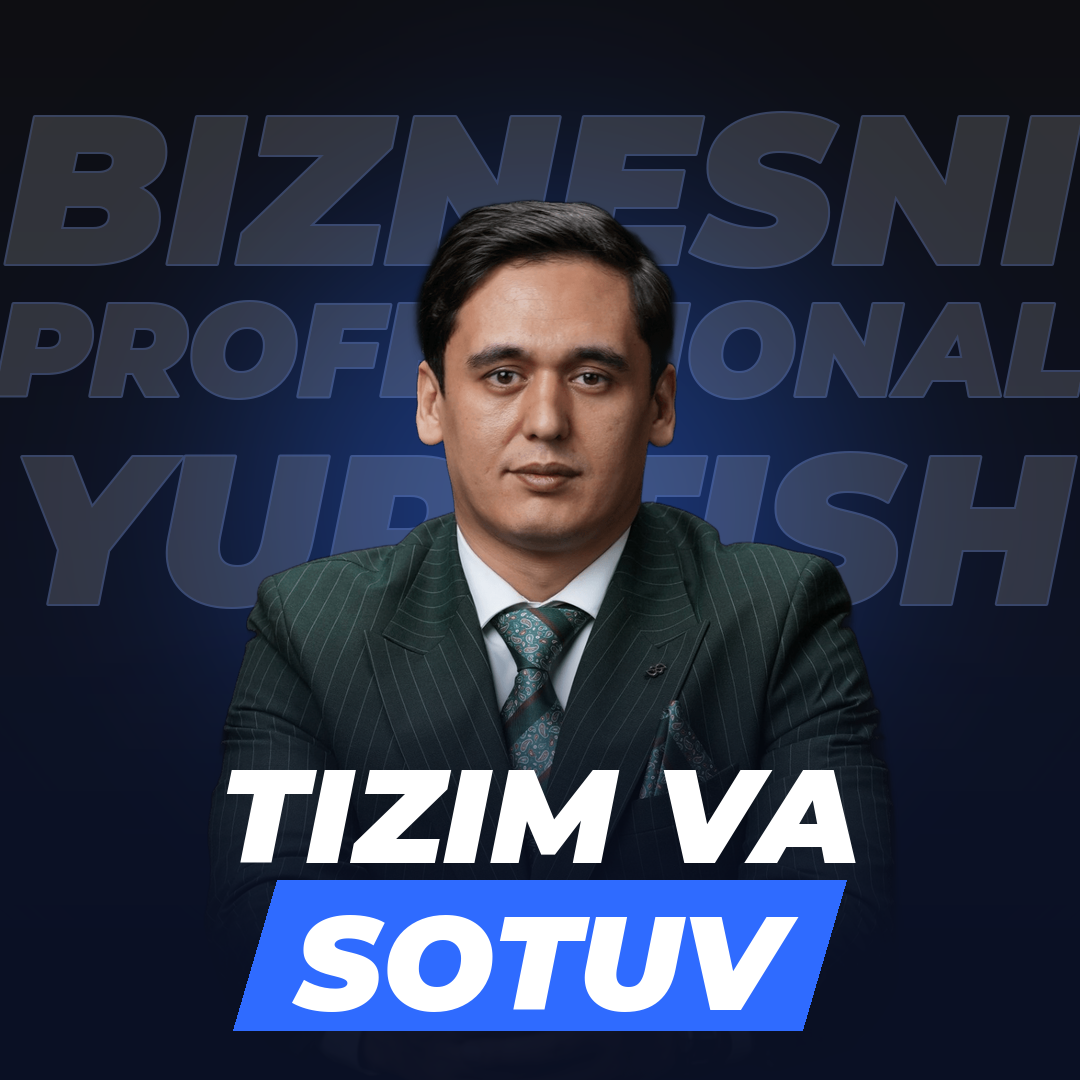
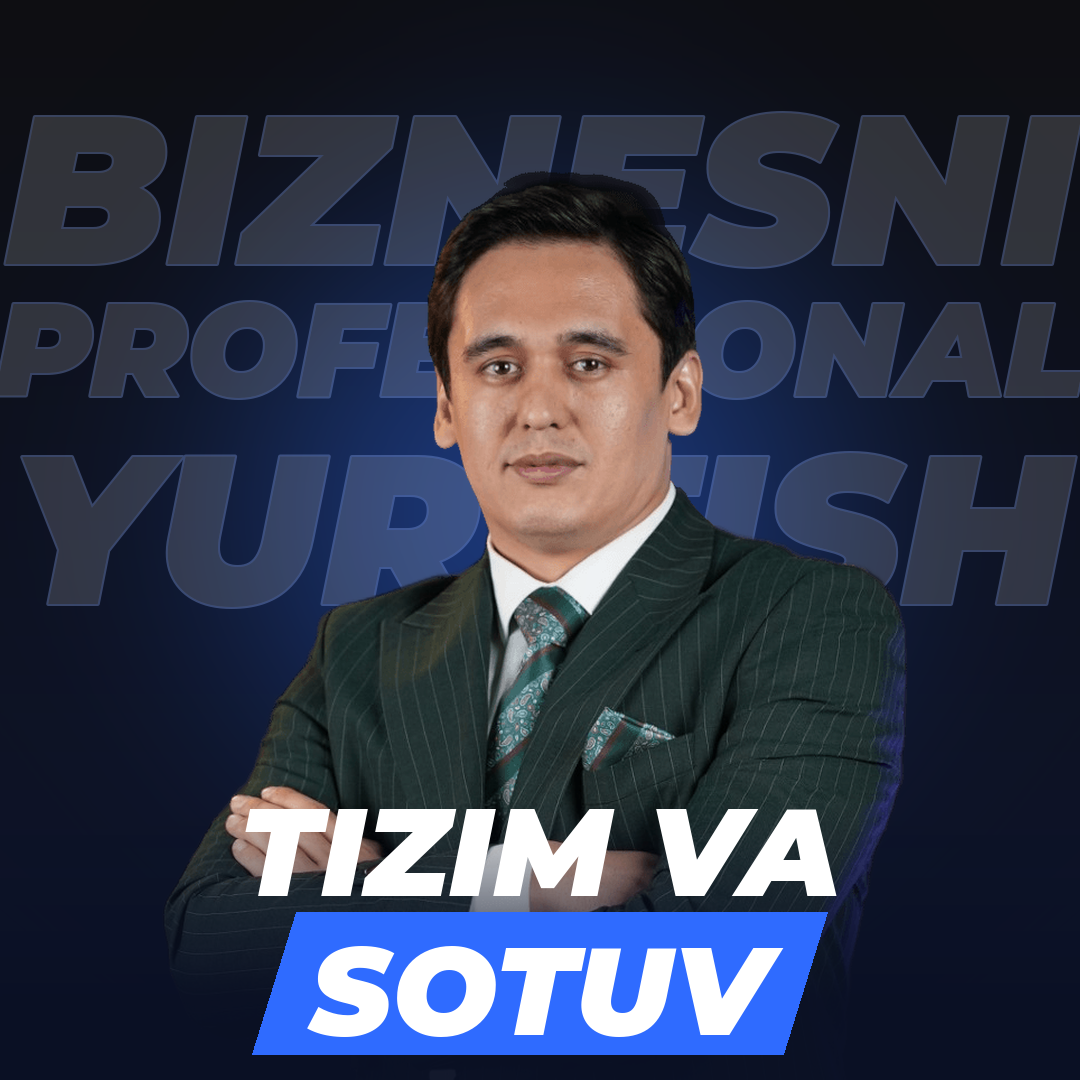
1:1 dizayn: yangi spiker rasmi (qo'ldan tepasi, kattaroq)
Claude-Session: https://claude.ai/code/session_01MnVYm2tC76KAA1Eter6suD

Changed region(s): [[0.1528, 0.1528, 0.8556, 0.9778]]

diff --git a/dizayn/kvadrat_yasash.py b/dizayn/kvadrat_yasash.py
@@ -21,20 +21,21 @@ for line,size in [("BIZNESNI",210),("PROFESSIONAL",150),("YURITISH",210)]:
     y+=size
 img.alpha_composite(bgt)
 # spiker
-p=Image.open("spiker1.png").convert("RGBA").crop((0,430,1336,1800))
-s=0.68; p=p.resize((round(p.width*s),round(p.height*s)),Image.LANCZOS)
-img.alpha_composite(p,((S-p.width)//2,150))
+p=Image.open("spiker3c.png").convert("RGBA").crop((0,360,1125,1215))
+s=1.12; p=p.resize((round(p.width*s),round(p.height*s)),Image.LANCZOS)
+cx=round(555*s)                       # spiker markazi (asl rasmda x~555)
+img.alpha_composite(p,(S//2-cx,S-p.height))
 # pastki qorong'ilashtirish (sarlavha o'qilishi uchun)
 sh=Image.new("RGBA",(S,S),(0,0,0,0)); sd=ImageDraw.Draw(sh)
-for yy in range(620,S):
-    t=(yy-620)/(S-620); sd.line([(0,yy),(S,yy)],fill=(10,16,36,round(245*min(1,t*1.4))))
+for yy in range(800,S):
+    t=(yy-800)/(S-800); sd.line([(0,yy),(S,yy)],fill=(10,16,36,round(245*min(1,t*1.4))))
 img.alpha_composite(sh)
 d=ImageDraw.Draw(img)
 # sarlavha: "TIZIM VA" oq, "SOTUV" ko'k plashka ichida
-f=ImageFont.truetype(F900,132)
-t1="TIZIM VA"; w1=d.textlength(t1,font=f); d.text(((S-w1)/2,735),t1,font=f,fill="white")
+f=ImageFont.truetype(F900,124)
+t1="TIZIM VA"; w1=d.textlength(t1,font=f); d.text(((S-w1)/2,775),t1,font=f,fill="white")
 t2="SOTUV"; w2=d.textlength(t2,font=f)
-bx0,by0=(S-w2)/2-40,880; bx1,by1=(S+w2)/2+40,880+150
+bx0,by0=(S-w2)/2-36,912; bx1,by1=(S+w2)/2+36,912+142
 d.polygon([(bx0+22,by0),(bx1+22,by0),(bx1-22,by1),(bx0-22,by1)],fill=(47,107,255))
 d.text(((S-w2)/2,by0+2),t2,font=f,fill="white")
 img.convert("RGB").save("/home/user/mening-saytim/dizayn/tizim-va-sotuv-1x1.png")
